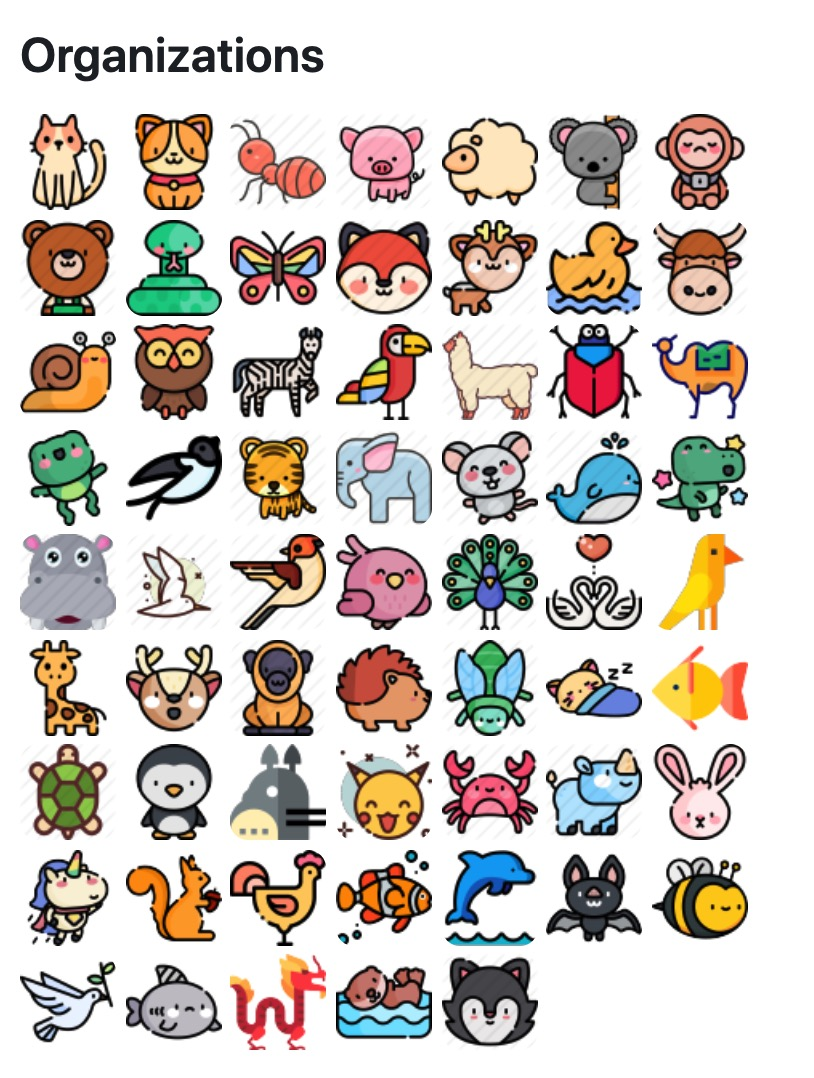
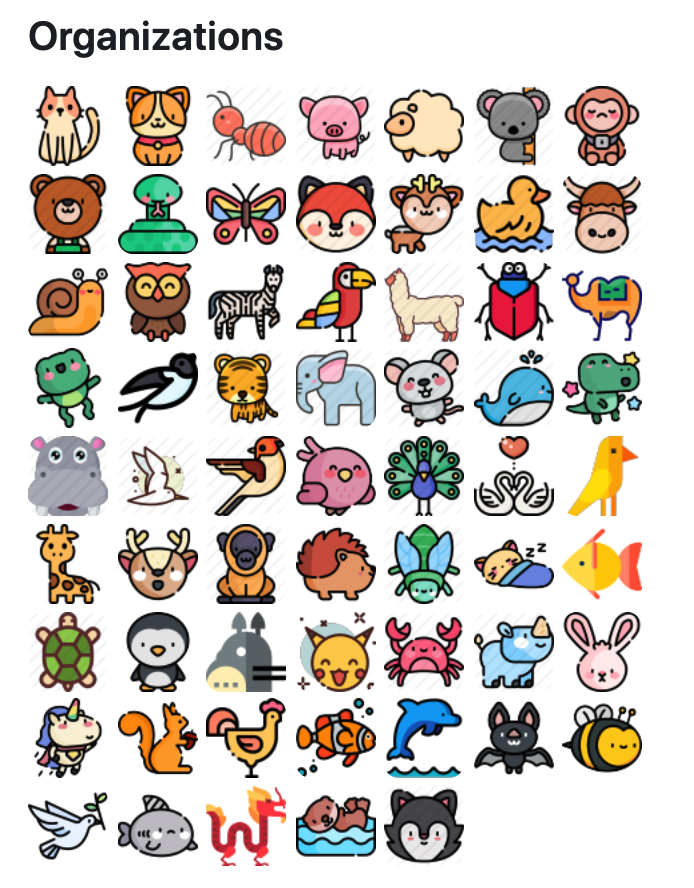
💖 update png

diff --git a/README.md b/README.md
@@ -44,7 +44,7 @@
 
 ## 🌟 预览图
 
-![](https://github.com/zoo-js/zoo/blob/master/assets/zoo.PNG?raw=true)
+![](https://github.com/zoo-js/zoo/blob/master/assets/zoo.png?raw=true)
 
 ## 💖 目的
 
